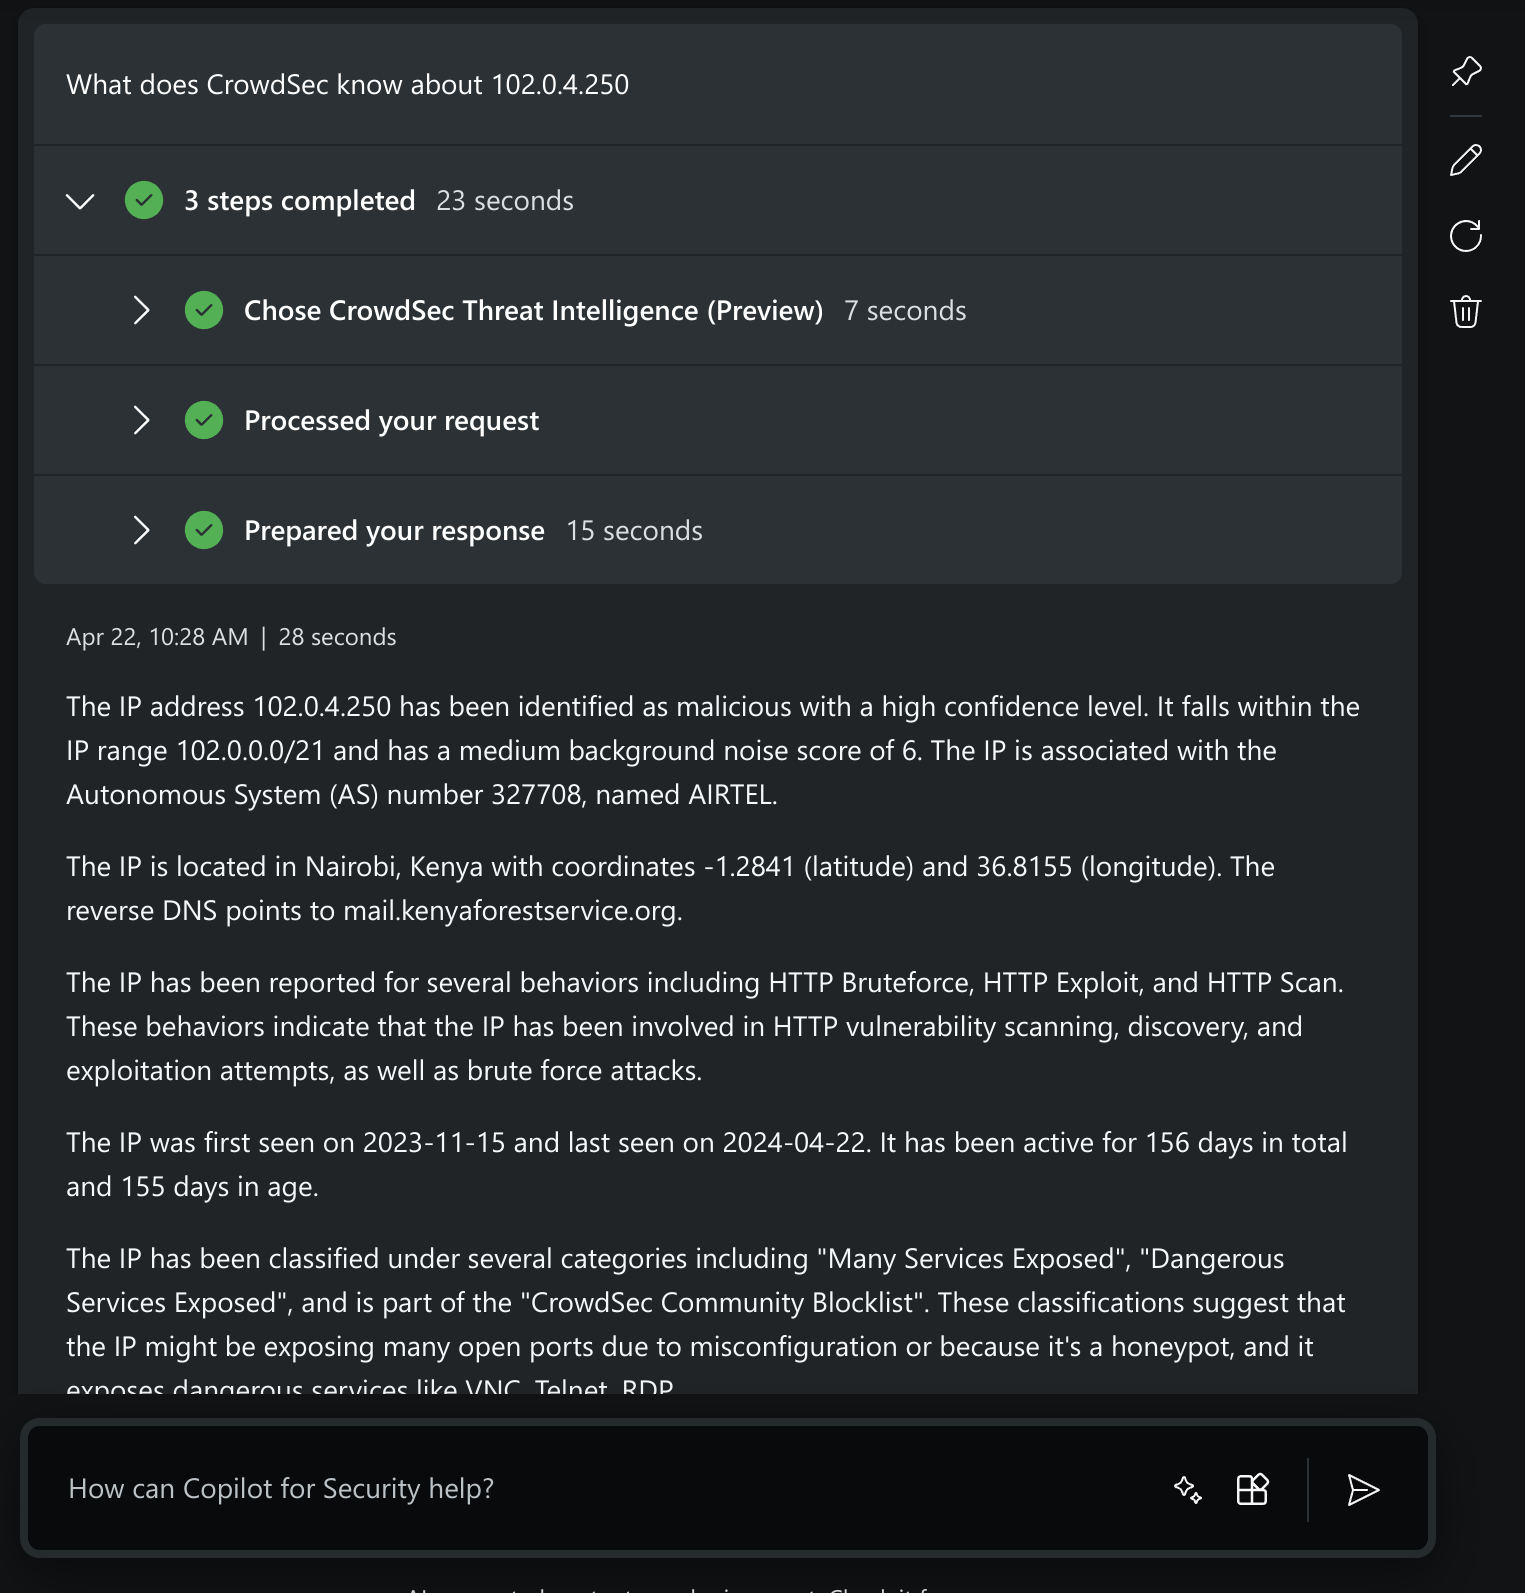
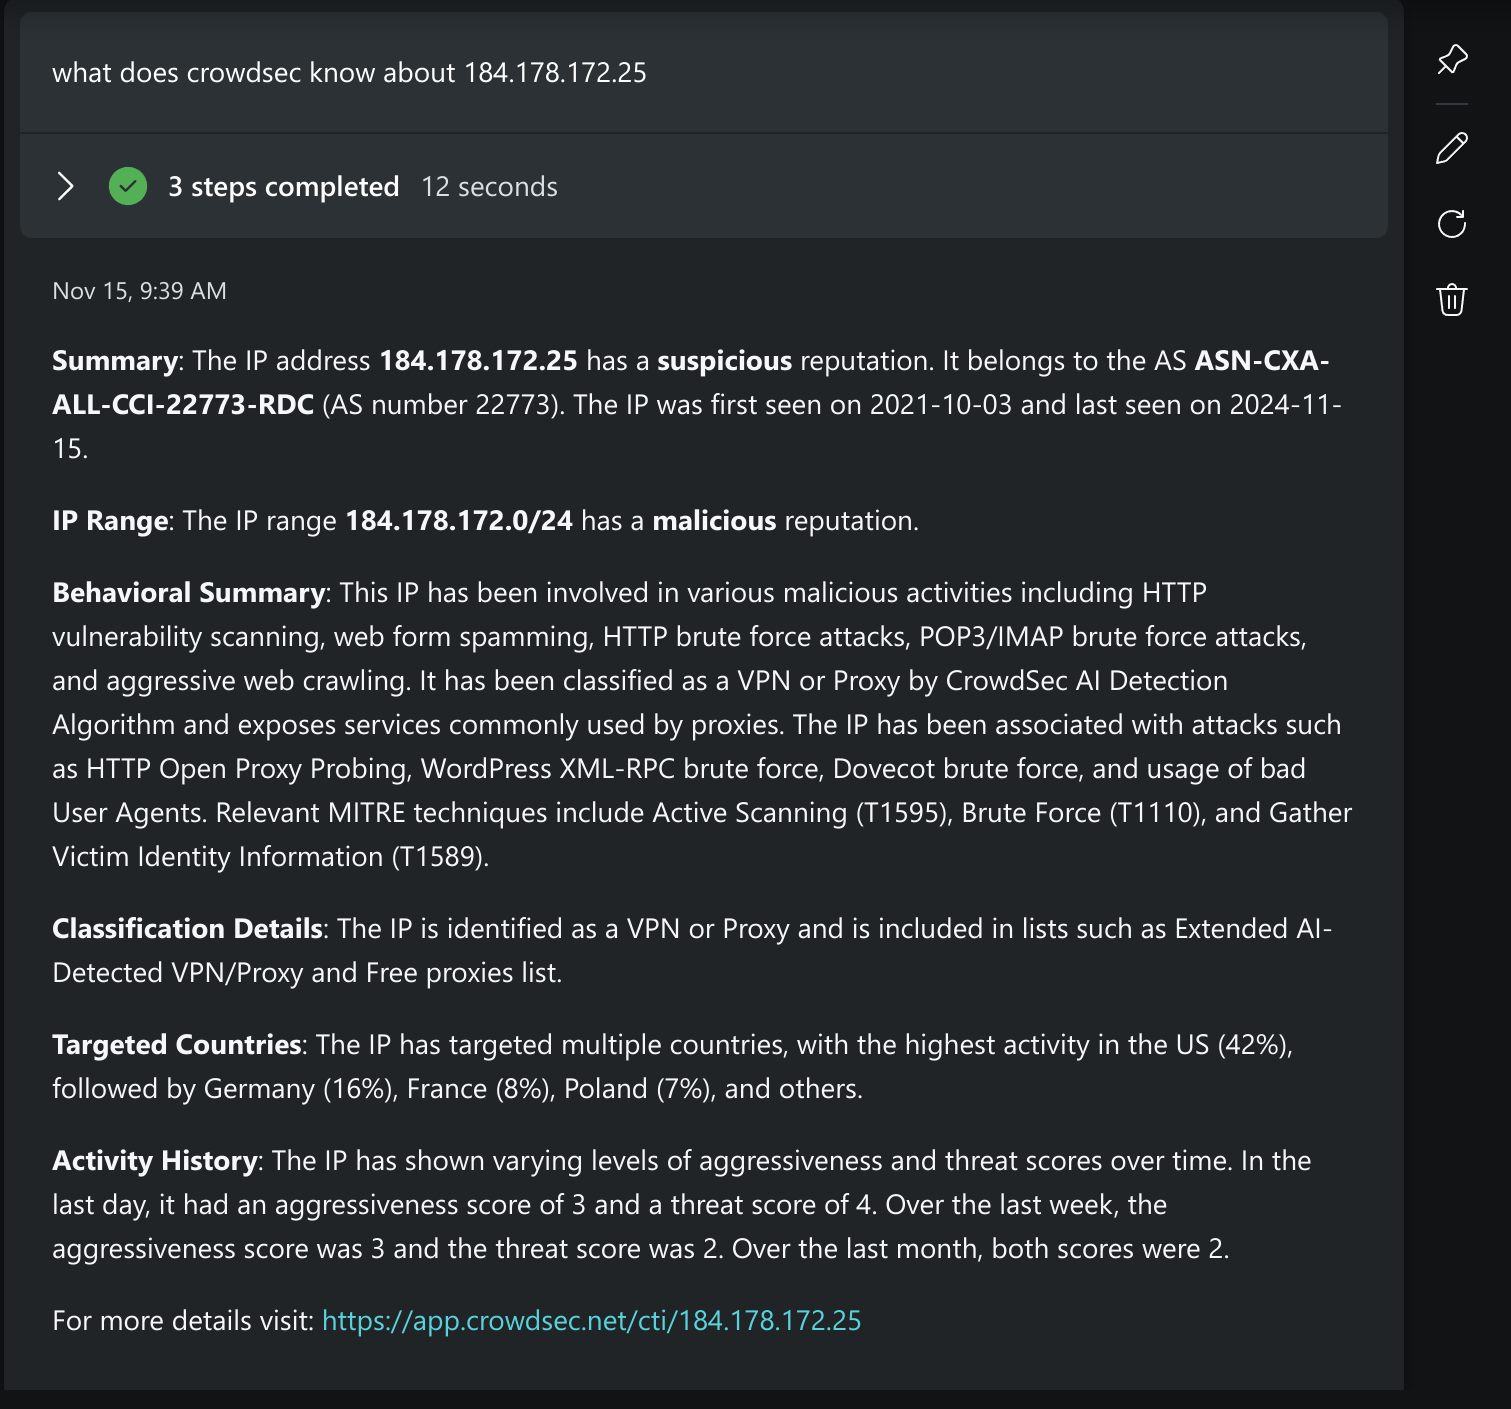
updating security coppilot screenshots post GA

diff --git a/crowdsec-docs/unversioned/cti_api/integration_securitycopilot.md b/crowdsec-docs/unversioned/cti_api/integration_securitycopilot.md
@@ -45,7 +45,7 @@ What does CrowdSec know about <an IP>
 ```
 For example: 
 ```
-What does CrowdSec know about 102.0.4.250
+What does CrowdSec know about 184.178.172.25
 ```  
 
 The 3 steps copilot take will be: to select the plugin, do the request and format his response as shown below:  
